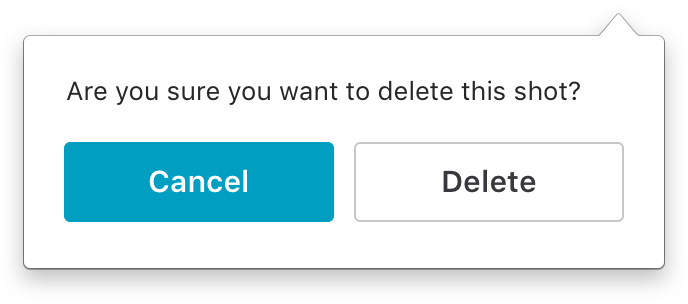
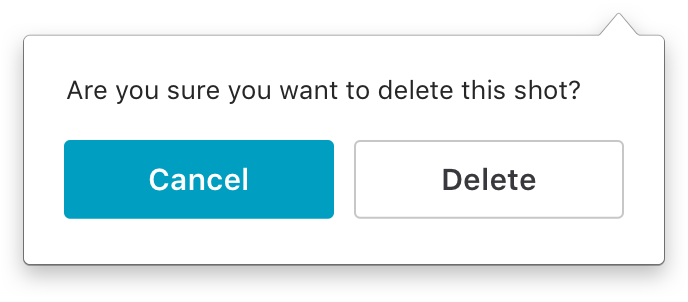
Deletion panel height update

diff --git a/menus/index.html b/menus/index.html
@@ -1559,7 +1559,7 @@ var I18N = {},
     init.prototype = SMApp.fn;
     window.SMApp = SMApp;
 })(window);
-$(function(){ SMApp({"scale":"1","unit":"px","colorFormat":"color-hex","artboards":[{"layers":[{"objectID":"9676976F-15D6-4E52-8C47-3437DF64ABA2","type":"shape","name":"Combined Shape Copy","rect":{"x":12,"y":7,"width":320,"height":127},"rotation":0,"radius":3,"borders":[{"fillType":"color","position":"outside","thickness":0.5,"color":{"r":0,"g":0,"b":0,"a":0.2954596920289855,"color-hex":"#000000 30%","argb-hex":"#4B000000","css-rgba":"rgba(0,0,0,0.3)","ui-color":"(r:0.00 g:0.00 b:0.00 a:0.30)"}}],"fills":[{"fillType":"color","color":{"r":255,"g":255,"b":255,"a":1,"color-hex":"#FFFFFF 100%","argb-hex":"#FFFFFFFF","css-rgba":"rgba(255,255,255,1)","ui-color":"(r:1.00 g:1.00 b:1.00 a:1.00)"}}],"shadows":[{"type":"outer","offsetX":0,"offsetY":0.5,"blurRadius":0,"spread":0,"color":{"r":0,"g":0,"b":0,"a":0.289458786231884,"color-hex":"#000000 29%","argb-hex":"#4A000000","css-rgba":"rgba(0,0,0,0.29)","ui-color":"(r:0.00 g:0.00 b:0.00 a:0.29)"}},{"type":"outer","offsetX":0,"offsetY":5,"blurRadius":11,"spread":0,"color":{"r":0,"g":0,"b":0,"a":0.2522361865942029,"color-hex":"#000000 25%","argb-hex":"#40000000","css-rgba":"rgba(0,0,0,0.25)","ui-color":"(r:0.00 g:0.00 b:0.00 a:0.25)"}},{"type":"inner","offsetX":0,"offsetY":0.5,"blurRadius":0,"spread":0,"color":{"r":255,"g":255,"b":255,"a":1,"color-hex":"#FFFFFF 100%","argb-hex":"#FFFFFFFF","css-rgba":"rgba(255,255,255,1)","ui-color":"(r:1.00 g:1.00 b:1.00 a:1.00)"}}],"opacity":1,"styleName":"","css":["background: #FFFFFF;","border: 0 solid rgba(0,0,0,0.30);","box-shadow: 0 5px 11px 0 rgba(0,0,0,0.25), 0 0 0 0 rgba(0,0,0,0.29), inset 0 0 0 0 #FFFFFF;","border-radius: 3px;"]},{"objectID":"64818195-3478-4863-8990-5958DECAA9ED","type":"shape","name":"Rectangle 5","rect":{"x":32,"y":71,"width":135,"height":40},"rotation":0,"radius":3,"borders":[],"fills":[{"fillType":"color","color":{"r":0,"g":158,"b":192,"a":1,"color-hex":"#009EC0 100%","argb-hex":"#FF009EC0","css-rgba":"rgba(0,158,192,1)","ui-color":"(r:0.00 g:0.62 b:0.75 a:1.00)"}}],"shadows":[],"opacity":1,"styleName":"","css":["background: #009EC0;","border-radius: 3px;"]},{"objectID":"D41F28B7-A1D2-476A-A14E-7978A355FFC0","type":"text","name":"Cancel","rect":{"x":32,"y":82,"width":135,"height":18},"rotation":0,"radius":0,"borders":[],"fills":[],"shadows":[],"opacity":1,"styleName":"","content":"Cancel","color":{"r":255,"g":255,"b":255,"a":1,"color-hex":"#FFFFFF 100%","argb-hex":"#FFFFFFFF","css-rgba":"rgba(255,255,255,1)","ui-color":"(r:1.00 g:1.00 b:1.00 a:1.00)"},"fontSize":15,"fontFace":"SFUIText-Semibold","textAlign":"center","letterSpacing":0,"lineHeight":18,"css":["font-family: SFUIText-Semibold;","font-size: 15px;","color: #FFFFFF;","letter-spacing: 0;","text-align: center;"]},{"objectID":"C537C3B9-589C-4F14-AD93-FF4EF29BED20","type":"shape","name":"Rectangle 5","rect":{"x":177,"y":71,"width":135,"height":40},"rotation":0,"radius":3,"borders":[{"fillType":"color","position":"inside","thickness":1,"color":{"r":199,"g":199,"b":199,"a":1,"color-hex":"#C7C7C7 100%","argb-hex":"#FFC7C7C7","css-rgba":"rgba(199,199,199,1)","ui-color":"(r:0.78 g:0.78 b:0.78 a:1.00)"}}],"fills":[],"shadows":[],"opacity":1,"styleName":"","css":["border: 1px solid #C7C7C7;","border-radius: 3px;"]},{"objectID":"4EC3954B-E12B-4A5F-B96C-1CED337F1175","type":"text","name":"Delete","rect":{"x":177,"y":82,"width":135,"height":18},"rotation":0,"radius":0,"borders":[],"fills":[],"shadows":[],"opacity":1,"styleName":"","content":"Delete","color":{"r":56,"g":56,"b":61,"a":1,"color-hex":"#38383D 100%","argb-hex":"#FF38383D","css-rgba":"rgba(56,56,61,1)","ui-color":"(r:0.22 g:0.22 b:0.24 a:1.00)"},"fontSize":15,"fontFace":"SFUIText-Semibold","textAlign":"center","letterSpacing":0,"lineHeight":18,"css":["font-family: SFUIText-Semibold;","font-size: 15px;","color: #38383D;","letter-spacing: 0;","text-align: center;"]},{"objectID":"63F2677F-FA0D-46E2-A576-898A5FC53648","type":"text","name":"Label","rect":{"x":33,"y":36,"width":280,"height":18},"rotation":0,"radius":0,"borders":[],"fills":[],"shadows":[],"opacity":1,"styleName":"","content":"Are you sure you want to delete this shot?","color":{"r":38,"g":38,"b":38,"a":1,"color-hex":"#262626 100%","argb-hex":"#FF262626","css-rgba":"rgba(38,38,38,1)","ui-color":"(r:0.15 g:0.15 b:0.15 a:1.00)"},"fontSize":13,"fontFace":"SFUIText-Regular","textAlign":"left","letterSpacing":0,"lineHeight":18,"css":["font-family: SFUIText-Regular;","font-size: 13px;","color: #262626;","line-height: 18px;"]}],"notes":[],"pageName":"Page 1","pageObjectID":"CB0FAD7B-CC56-4210-BD4C-2796228799D9","name":"Deletion UI","slug":"page-1-deletion-ui","objectID":"91FF8EB3-EB1F-407C-8607-9E1EEA608E00","width":344,"height":152,"imagePath":"preview/page-1-deletion-ui.png"},{"layers":[{"objectID":"102E74FD-D1DD-44CF-B14A-F383D80F8DD5","type":"shape","name":"Combined Shape Copy","rect":{"x":12,"y":7,"width":320,"height":208,"maxX":332,"maxY":215},"rotation":0,"radius":3,"borders":[{"fillType":"color","position":"outside","thickness":0.5,"color":{"r":0,"g":0,"b":0,"a":0.2954596920289855,"color-hex":"#000000 30%","argb-hex":"#4B000000","css-rgba":"rgba(0,0,0,0.3)","ui-color":"(r:0.00 g:0.00 b:0.00 a:0.30)"}}],"fills":[{"fillType":"color","color":{"r":255,"g":255,"b":255,"a":1,"color-hex":"#FFFFFF 100%","argb-hex":"#FFFFFFFF","css-rgba":"rgba(255,255,255,1)","ui-color":"(r:1.00 g:1.00 b:1.00 a:1.00)"}}],"shadows":[{"type":"outer","offsetX":0,"offsetY":0.5,"blurRadius":0,"spread":0,"color":{"r":0,"g":0,"b":0,"a":0.289458786231884,"color-hex":"#000000 29%","argb-hex":"#4A000000","css-rgba":"rgba(0,0,0,0.29)","ui-color":"(r:0.00 g:0.00 b:0.00 a:0.29)"}},{"type":"outer","offsetX":0,"offsetY":5,"blurRadius":11,"spread":0,"color":{"r":0,"g":0,"b":0,"a":0.2522361865942029,"color-hex":"#000000 25%","argb-hex":"#40000000","css-rgba":"rgba(0,0,0,0.25)","ui-color":"(r:0.00 g:0.00 b:0.00 a:0.25)"}},{"type":"inner","offsetX":0,"offsetY":0.5,"blurRadius":0,"spread":0,"color":{"r":255,"g":255,"b":255,"a":1,"color-hex":"#FFFFFF 100%","argb-hex":"#FFFFFFFF","css-rgba":"rgba(255,255,255,1)","ui-color":"(r:1.00 g:1.00 b:1.00 a:1.00)"}}],"opacity":1,"styleName":"","css":["background: #FFFFFF;","border: 0 solid rgba(0,0,0,0.30);","box-shadow: 0 5px 11px 0 rgba(0,0,0,0.25), 0 0 0 0 rgba(0,0,0,0.29), inset 0 0 0 0 #FFFFFF;","border-radius: 3px;"]},{"objectID":"CD06A5D5-19B8-4215-ADE9-75C5782B6E77","type":"shape","name":"Rectangle 5","rect":{"x":32,"y":67,"width":273,"height":40},"rotation":0,"radius":3,"borders":[{"fillType":"color","position":"inside","thickness":1,"color":{"r":212,"g":212,"b":212,"a":1,"color-hex":"#D4D4D4 100%","argb-hex":"#FFD4D4D4","css-rgba":"rgba(212,212,212,1)","ui-color":"(r:0.83 g:0.83 b:0.83 a:1.00)"}}],"fills":[{"fillType":"color","color":{"r":255,"g":255,"b":255,"a":1,"color-hex":"#FFFFFF 100%","argb-hex":"#FFFFFFFF","css-rgba":"rgba(255,255,255,1)","ui-color":"(r:1.00 g:1.00 b:1.00 a:1.00)"}}],"shadows":[],"opacity":1,"styleName":"","css":["background: #FFFFFF;","border: 1px solid #D4D4D4;","border-radius: 3px;"]},{"objectID":"A113031C-CDAF-45F9-A7EE-009D13020A23","type":"shape","name":"Rectangle 5","rect":{"x":222,"y":67,"width":90,"height":40},"rotation":0,"radius":3,"borders":[],"fills":[{"fillType":"color","color":{"r":0,"g":158,"b":192,"a":1,"color-hex":"#009EC0 100%","argb-hex":"#FF009EC0","css-rgba":"rgba(0,158,192,1)","ui-color":"(r:0.00 g:0.62 b:0.75 a:1.00)"}}],"shadows":[],"opacity":1,"styleName":"","css":["background: #009EC0;","border-radius: 0 3px 3px 0;"]},{"objectID":"22972803-4C7A-44F3-A8DB-DD35A269DE69","type":"text","name":"https://screenshots.","rect":{"x":39,"y":78,"width":213,"height":18},"rotation":0,"radius":0,"borders":[],"fills":[],"shadows":[],"opacity":1,"styleName":"","content":"https://screenshots.firefo","color":{"r":74,"g":74,"b":74,"a":1,"color-hex":"#4A4A4A 100%","argb-hex":"#FF4A4A4A","css-rgba":"rgba(74,74,74,1)","ui-color":"(r:0.29 g:0.29 b:0.29 a:1.00)"},"fontSize":15,"fontFace":"SFUIText-Regular","textAlign":"left","letterSpacing":0,"lineHeight":18,"css":["font-family: SFUIText-Regular;","font-size: 15px;","color: #4A4A4A;","letter-spacing: 0;"]},{"objectID":"0D2D2391-153E-4A9A-9D40-CF74F9A13F78","type":"text","name":"Copy","rect":{"x":247,"y":78,"width":41,"height":18},"rotation":0,"radius":0,"borders":[],"fills":[],"shadows":[],"opacity":1,"styleName":"","content":"Copy","color":{"r":255,"g":255,"b":255,"a":1,"color-hex":"#FFFFFF 100%","argb-hex":"#FFFFFFFF","css-rgba":"rgba(255,255,255,1)","ui-color":"(r:1.00 g:1.00 b:1.00 a:1.00)"},"fontSize":15,"fontFace":"SFUIText-Semibold","textAlign":"left","letterSpacing":0,"lineHeight":18,"css":["font-family: SFUIText-Semibold;","font-size: 15px;","color: #FFFFFF;","letter-spacing: 0;"]},{"objectID":"D96CBDBA-40C9-49F2-A9A0-95C8C09D0013","type":"text","name":"Label","rect":{"x":32,"y":35,"width":200,"height":18},"rotation":0,"radius":0,"borders":[],"fills":[],"shadows":[],"opacity":1,"styleName":"","content":"Get a shareable link:","color":{"r":38,"g":38,"b":38,"a":1,"color-hex":"#262626 100%","argb-hex":"#FF262626","css-rgba":"rgba(38,38,38,1)","ui-color":"(r:0.15 g:0.15 b:0.15 a:1.00)"},"fontSize":13,"fontFace":"SFUIText-Semibold","textAlign":"left","letterSpacing":0,"lineHeight":18,"css":["font-family: SFUIText-Semibold;","font-size: 13px;","color: #262626;","line-height: 18px;"]},{"objectID":"5607AB46-2D51-4003-BE6F-3E9E884CD17A","type":"text","name":"Anyone with the link","rect":{"x":32,"y":119,"width":242,"height":18},"rotation":0,"radius":0,"borders":[],"fills":[],"shadows":[],"opacity":1,"styleName":"","content":"Anyone with the link can view this shot.","color":{"r":106,"g":106,"b":106,"a":1,"color-hex":"#6A6A6A 100%","argb-hex":"#FF6A6A6A","css-rgba":"rgba(106,106,106,1)","ui-color":"(r:0.42 g:0.42 b:0.42 a:1.00)"},"fontSize":13,"fontFace":"SFUIText-Regular","textAlign":"left","letterSpacing":0,"lineHeight":18,"css":["font-family: SFUIText-Regular;","font-size: 13px;","color: #6A6A6A;","line-height: 18px;"]},{"objectID":"A3A5077D-8542-42C7-8AAB-6AB14ECD85D6","type":"shape","name":"Bitmap","rect":{"x":248,"y":150,"width":48,"height":48},"rotation":0,"radius":0,"borders":[],"fills":[],"shadows":[],"opacity":1,"styleName":""},{"objectID":"DFE673E9-BFA4-4430-A234-F4C4EE2826F9","type":"shape","name":"Bitmap","rect":{"x":180,"y":150,"width":48,"height":48},"rotation":0,"radius":0,"borders":[],"fills":[],"shadows":[],"opacity":1,"styleName":""},{"objectID":"A33F17BB-6BC7-4AEC-8820-75D07AF8D405","type":"shape","name":"Bitmap","rect":{"x":112,"y":150,"width":48,"height":48},"rotation":0,"radius":0,"borders":[],"fills":[],"shadows":[],"opacity":1,"styleName":""},{"objectID":"6E680DA9-3478-4474-A7DD-DF9F0EE5CE25","type":"shape","name":"Bitmap","rect":{"x":44,"y":150,"width":48,"height":48},"rotation":0,"radius":0,"borders":[],"fills":[],"shadows":[],"opacity":1,"styleName":""}],"notes":[],"pageName":"Page 1","pageObjectID":"CB0FAD7B-CC56-4210-BD4C-2796228799D9","name":"Share UI","slug":"page-1-share-ui","objectID":"12E099F5-C320-47E9-8746-3A5FFB88B976","width":344,"height":232,"imagePath":"preview/page-1-share-ui.png"}],"slices":[],"colors":[]}) });
+$(function(){ SMApp({"scale":"1","unit":"px","colorFormat":"color-hex","artboards":[{"layers":[{"objectID":"9676976F-15D6-4E52-8C47-3437DF64ABA2","type":"shape","name":"Combined Shape Copy","rect":{"x":12,"y":7,"width":320,"height":125},"rotation":0,"radius":3,"borders":[{"fillType":"color","position":"outside","thickness":0.5,"color":{"r":0,"g":0,"b":0,"a":0.2954596920289855,"color-hex":"#000000 30%","argb-hex":"#4B000000","css-rgba":"rgba(0,0,0,0.3)","ui-color":"(r:0.00 g:0.00 b:0.00 a:0.30)"}}],"fills":[{"fillType":"color","color":{"r":255,"g":255,"b":255,"a":1,"color-hex":"#FFFFFF 100%","argb-hex":"#FFFFFFFF","css-rgba":"rgba(255,255,255,1)","ui-color":"(r:1.00 g:1.00 b:1.00 a:1.00)"}}],"shadows":[{"type":"outer","offsetX":0,"offsetY":0.5,"blurRadius":0,"spread":0,"color":{"r":0,"g":0,"b":0,"a":0.289458786231884,"color-hex":"#000000 29%","argb-hex":"#4A000000","css-rgba":"rgba(0,0,0,0.29)","ui-color":"(r:0.00 g:0.00 b:0.00 a:0.29)"}},{"type":"outer","offsetX":0,"offsetY":5,"blurRadius":11,"spread":0,"color":{"r":0,"g":0,"b":0,"a":0.2522361865942029,"color-hex":"#000000 25%","argb-hex":"#40000000","css-rgba":"rgba(0,0,0,0.25)","ui-color":"(r:0.00 g:0.00 b:0.00 a:0.25)"}},{"type":"inner","offsetX":0,"offsetY":0.5,"blurRadius":0,"spread":0,"color":{"r":255,"g":255,"b":255,"a":1,"color-hex":"#FFFFFF 100%","argb-hex":"#FFFFFFFF","css-rgba":"rgba(255,255,255,1)","ui-color":"(r:1.00 g:1.00 b:1.00 a:1.00)"}}],"opacity":1,"styleName":"","css":["background: #FFFFFF;","border: 0 solid rgba(0,0,0,0.30);","box-shadow: 0 5px 11px 0 rgba(0,0,0,0.25), 0 0 0 0 rgba(0,0,0,0.29), inset 0 0 0 0 #FFFFFF;","border-radius: 3px;"]},{"objectID":"64818195-3478-4863-8990-5958DECAA9ED","type":"shape","name":"Rectangle 5","rect":{"x":32,"y":70,"width":135,"height":39.4},"rotation":0,"radius":3,"borders":[],"fills":[{"fillType":"color","color":{"r":0,"g":158,"b":192,"a":1,"color-hex":"#009EC0 100%","argb-hex":"#FF009EC0","css-rgba":"rgba(0,158,192,1)","ui-color":"(r:0.00 g:0.62 b:0.75 a:1.00)"}}],"shadows":[],"opacity":1,"styleName":"","css":["background: #009EC0;","border-radius: 3px;"]},{"objectID":"D41F28B7-A1D2-476A-A14E-7978A355FFC0","type":"text","name":"Cancel","rect":{"x":32,"y":80.8,"width":135,"height":18},"rotation":0,"radius":0,"borders":[],"fills":[],"shadows":[],"opacity":1,"styleName":"","content":"Cancel","color":{"r":255,"g":255,"b":255,"a":1,"color-hex":"#FFFFFF 100%","argb-hex":"#FFFFFFFF","css-rgba":"rgba(255,255,255,1)","ui-color":"(r:1.00 g:1.00 b:1.00 a:1.00)"},"fontSize":15,"fontFace":"SFUIText-Semibold","textAlign":"center","letterSpacing":0,"lineHeight":18,"css":["font-family: SFUIText-Semibold;","font-size: 15px;","color: #FFFFFF;","letter-spacing: 0;","text-align: center;"]},{"objectID":"C537C3B9-589C-4F14-AD93-FF4EF29BED20","type":"shape","name":"Rectangle 5","rect":{"x":177,"y":70,"width":135,"height":39.4},"rotation":0,"radius":3,"borders":[{"fillType":"color","position":"inside","thickness":1,"color":{"r":199,"g":199,"b":199,"a":1,"color-hex":"#C7C7C7 100%","argb-hex":"#FFC7C7C7","css-rgba":"rgba(199,199,199,1)","ui-color":"(r:0.78 g:0.78 b:0.78 a:1.00)"}}],"fills":[],"shadows":[],"opacity":1,"styleName":"","css":["border: 1px solid #C7C7C7;","border-radius: 3px;"]},{"objectID":"4EC3954B-E12B-4A5F-B96C-1CED337F1175","type":"text","name":"Delete","rect":{"x":177,"y":80.8,"width":135,"height":18},"rotation":0,"radius":0,"borders":[],"fills":[],"shadows":[],"opacity":1,"styleName":"","content":"Delete","color":{"r":56,"g":56,"b":61,"a":1,"color-hex":"#38383D 100%","argb-hex":"#FF38383D","css-rgba":"rgba(56,56,61,1)","ui-color":"(r:0.22 g:0.22 b:0.24 a:1.00)"},"fontSize":15,"fontFace":"SFUIText-Semibold","textAlign":"center","letterSpacing":0,"lineHeight":18,"css":["font-family: SFUIText-Semibold;","font-size: 15px;","color: #38383D;","letter-spacing: 0;","text-align: center;"]},{"objectID":"63F2677F-FA0D-46E2-A576-898A5FC53648","type":"text","name":"Label","rect":{"x":33,"y":35.4,"width":280,"height":18},"rotation":0,"radius":0,"borders":[],"fills":[],"shadows":[],"opacity":1,"styleName":"","content":"Are you sure you want to delete this shot?","color":{"r":38,"g":38,"b":38,"a":1,"color-hex":"#262626 100%","argb-hex":"#FF262626","css-rgba":"rgba(38,38,38,1)","ui-color":"(r:0.15 g:0.15 b:0.15 a:1.00)"},"fontSize":13,"fontFace":"SFUIText-Regular","textAlign":"left","letterSpacing":0,"lineHeight":18,"css":["font-family: SFUIText-Regular;","font-size: 13px;","color: #262626;","line-height: 18px;"]}],"notes":[],"pageName":"Page 1","pageObjectID":"CB0FAD7B-CC56-4210-BD4C-2796228799D9","name":"Deletion UI","slug":"page-1-deletion-ui","objectID":"91FF8EB3-EB1F-407C-8607-9E1EEA608E00","width":344,"height":151,"imagePath":"preview/page-1-deletion-ui.png"},{"layers":[{"objectID":"102E74FD-D1DD-44CF-B14A-F383D80F8DD5","type":"shape","name":"Combined Shape Copy","rect":{"x":12,"y":7,"width":320,"height":208,"maxX":332,"maxY":215},"rotation":0,"radius":3,"borders":[{"fillType":"color","position":"outside","thickness":0.5,"color":{"r":0,"g":0,"b":0,"a":0.2954596920289855,"color-hex":"#000000 30%","argb-hex":"#4B000000","css-rgba":"rgba(0,0,0,0.3)","ui-color":"(r:0.00 g:0.00 b:0.00 a:0.30)"}}],"fills":[{"fillType":"color","color":{"r":255,"g":255,"b":255,"a":1,"color-hex":"#FFFFFF 100%","argb-hex":"#FFFFFFFF","css-rgba":"rgba(255,255,255,1)","ui-color":"(r:1.00 g:1.00 b:1.00 a:1.00)"}}],"shadows":[{"type":"outer","offsetX":0,"offsetY":0.5,"blurRadius":0,"spread":0,"color":{"r":0,"g":0,"b":0,"a":0.289458786231884,"color-hex":"#000000 29%","argb-hex":"#4A000000","css-rgba":"rgba(0,0,0,0.29)","ui-color":"(r:0.00 g:0.00 b:0.00 a:0.29)"}},{"type":"outer","offsetX":0,"offsetY":5,"blurRadius":11,"spread":0,"color":{"r":0,"g":0,"b":0,"a":0.2522361865942029,"color-hex":"#000000 25%","argb-hex":"#40000000","css-rgba":"rgba(0,0,0,0.25)","ui-color":"(r:0.00 g:0.00 b:0.00 a:0.25)"}},{"type":"inner","offsetX":0,"offsetY":0.5,"blurRadius":0,"spread":0,"color":{"r":255,"g":255,"b":255,"a":1,"color-hex":"#FFFFFF 100%","argb-hex":"#FFFFFFFF","css-rgba":"rgba(255,255,255,1)","ui-color":"(r:1.00 g:1.00 b:1.00 a:1.00)"}}],"opacity":1,"styleName":"","css":["background: #FFFFFF;","border: 0 solid rgba(0,0,0,0.30);","box-shadow: 0 5px 11px 0 rgba(0,0,0,0.25), 0 0 0 0 rgba(0,0,0,0.29), inset 0 0 0 0 #FFFFFF;","border-radius: 3px;"]},{"objectID":"CD06A5D5-19B8-4215-ADE9-75C5782B6E77","type":"shape","name":"Rectangle 5","rect":{"x":32,"y":67,"width":273,"height":40},"rotation":0,"radius":3,"borders":[{"fillType":"color","position":"inside","thickness":1,"color":{"r":212,"g":212,"b":212,"a":1,"color-hex":"#D4D4D4 100%","argb-hex":"#FFD4D4D4","css-rgba":"rgba(212,212,212,1)","ui-color":"(r:0.83 g:0.83 b:0.83 a:1.00)"}}],"fills":[{"fillType":"color","color":{"r":255,"g":255,"b":255,"a":1,"color-hex":"#FFFFFF 100%","argb-hex":"#FFFFFFFF","css-rgba":"rgba(255,255,255,1)","ui-color":"(r:1.00 g:1.00 b:1.00 a:1.00)"}}],"shadows":[],"opacity":1,"styleName":"","css":["background: #FFFFFF;","border: 1px solid #D4D4D4;","border-radius: 3px;"]},{"objectID":"A113031C-CDAF-45F9-A7EE-009D13020A23","type":"shape","name":"Rectangle 5","rect":{"x":222,"y":67,"width":90,"height":40},"rotation":0,"radius":3,"borders":[],"fills":[{"fillType":"color","color":{"r":0,"g":158,"b":192,"a":1,"color-hex":"#009EC0 100%","argb-hex":"#FF009EC0","css-rgba":"rgba(0,158,192,1)","ui-color":"(r:0.00 g:0.62 b:0.75 a:1.00)"}}],"shadows":[],"opacity":1,"styleName":"","css":["background: #009EC0;","border-radius: 0 3px 3px 0;"]},{"objectID":"22972803-4C7A-44F3-A8DB-DD35A269DE69","type":"text","name":"https://screenshots.","rect":{"x":39,"y":78,"width":213,"height":18},"rotation":0,"radius":0,"borders":[],"fills":[],"shadows":[],"opacity":1,"styleName":"","content":"https://screenshots.firefo","color":{"r":74,"g":74,"b":74,"a":1,"color-hex":"#4A4A4A 100%","argb-hex":"#FF4A4A4A","css-rgba":"rgba(74,74,74,1)","ui-color":"(r:0.29 g:0.29 b:0.29 a:1.00)"},"fontSize":15,"fontFace":"SFUIText-Regular","textAlign":"left","letterSpacing":0,"lineHeight":18,"css":["font-family: SFUIText-Regular;","font-size: 15px;","color: #4A4A4A;","letter-spacing: 0;"]},{"objectID":"0D2D2391-153E-4A9A-9D40-CF74F9A13F78","type":"text","name":"Copy","rect":{"x":247,"y":78,"width":41,"height":18},"rotation":0,"radius":0,"borders":[],"fills":[],"shadows":[],"opacity":1,"styleName":"","content":"Copy","color":{"r":255,"g":255,"b":255,"a":1,"color-hex":"#FFFFFF 100%","argb-hex":"#FFFFFFFF","css-rgba":"rgba(255,255,255,1)","ui-color":"(r:1.00 g:1.00 b:1.00 a:1.00)"},"fontSize":15,"fontFace":"SFUIText-Semibold","textAlign":"left","letterSpacing":0,"lineHeight":18,"css":["font-family: SFUIText-Semibold;","font-size: 15px;","color: #FFFFFF;","letter-spacing: 0;"]},{"objectID":"D96CBDBA-40C9-49F2-A9A0-95C8C09D0013","type":"text","name":"Label","rect":{"x":32,"y":35,"width":200,"height":18},"rotation":0,"radius":0,"borders":[],"fills":[],"shadows":[],"opacity":1,"styleName":"","content":"Get a shareable link:","color":{"r":38,"g":38,"b":38,"a":1,"color-hex":"#262626 100%","argb-hex":"#FF262626","css-rgba":"rgba(38,38,38,1)","ui-color":"(r:0.15 g:0.15 b:0.15 a:1.00)"},"fontSize":13,"fontFace":"SFUIText-Semibold","textAlign":"left","letterSpacing":0,"lineHeight":18,"css":["font-family: SFUIText-Semibold;","font-size: 13px;","color: #262626;","line-height: 18px;"]},{"objectID":"5607AB46-2D51-4003-BE6F-3E9E884CD17A","type":"text","name":"Anyone with the link","rect":{"x":32,"y":119,"width":242,"height":18},"rotation":0,"radius":0,"borders":[],"fills":[],"shadows":[],"opacity":1,"styleName":"","content":"Anyone with the link can view this shot.","color":{"r":106,"g":106,"b":106,"a":1,"color-hex":"#6A6A6A 100%","argb-hex":"#FF6A6A6A","css-rgba":"rgba(106,106,106,1)","ui-color":"(r:0.42 g:0.42 b:0.42 a:1.00)"},"fontSize":13,"fontFace":"SFUIText-Regular","textAlign":"left","letterSpacing":0,"lineHeight":18,"css":["font-family: SFUIText-Regular;","font-size: 13px;","color: #6A6A6A;","line-height: 18px;"]},{"objectID":"A3A5077D-8542-42C7-8AAB-6AB14ECD85D6","type":"shape","name":"Bitmap","rect":{"x":248,"y":150,"width":48,"height":48},"rotation":0,"radius":0,"borders":[],"fills":[],"shadows":[],"opacity":1,"styleName":""},{"objectID":"DFE673E9-BFA4-4430-A234-F4C4EE2826F9","type":"shape","name":"Bitmap","rect":{"x":180,"y":150,"width":48,"height":48},"rotation":0,"radius":0,"borders":[],"fills":[],"shadows":[],"opacity":1,"styleName":""},{"objectID":"A33F17BB-6BC7-4AEC-8820-75D07AF8D405","type":"shape","name":"Bitmap","rect":{"x":112,"y":150,"width":48,"height":48},"rotation":0,"radius":0,"borders":[],"fills":[],"shadows":[],"opacity":1,"styleName":""},{"objectID":"6E680DA9-3478-4474-A7DD-DF9F0EE5CE25","type":"shape","name":"Bitmap","rect":{"x":44,"y":150,"width":48,"height":48},"rotation":0,"radius":0,"borders":[],"fills":[],"shadows":[],"opacity":1,"styleName":""}],"notes":[],"pageName":"Page 1","pageObjectID":"CB0FAD7B-CC56-4210-BD4C-2796228799D9","name":"Share UI","slug":"page-1-share-ui","objectID":"12E099F5-C320-47E9-8746-3A5FFB88B976","width":344,"height":232,"imagePath":"preview/page-1-share-ui.png"}],"slices":[],"colors":[]}) });
     -->
     </script>
   </head>
